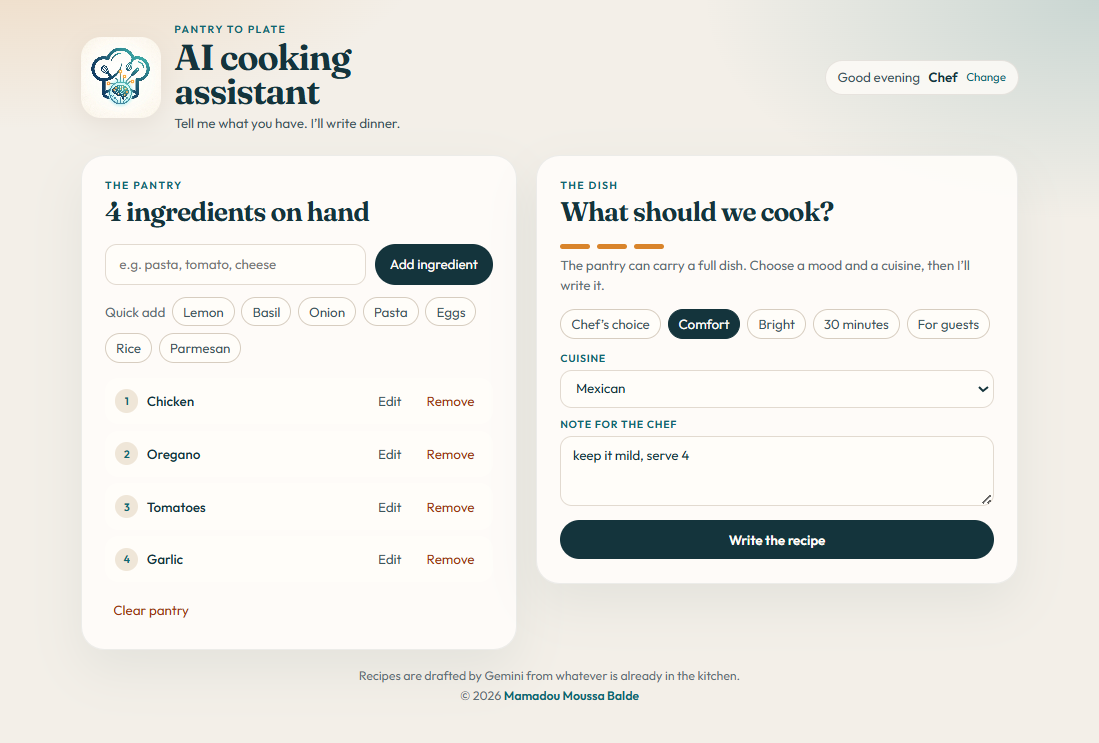
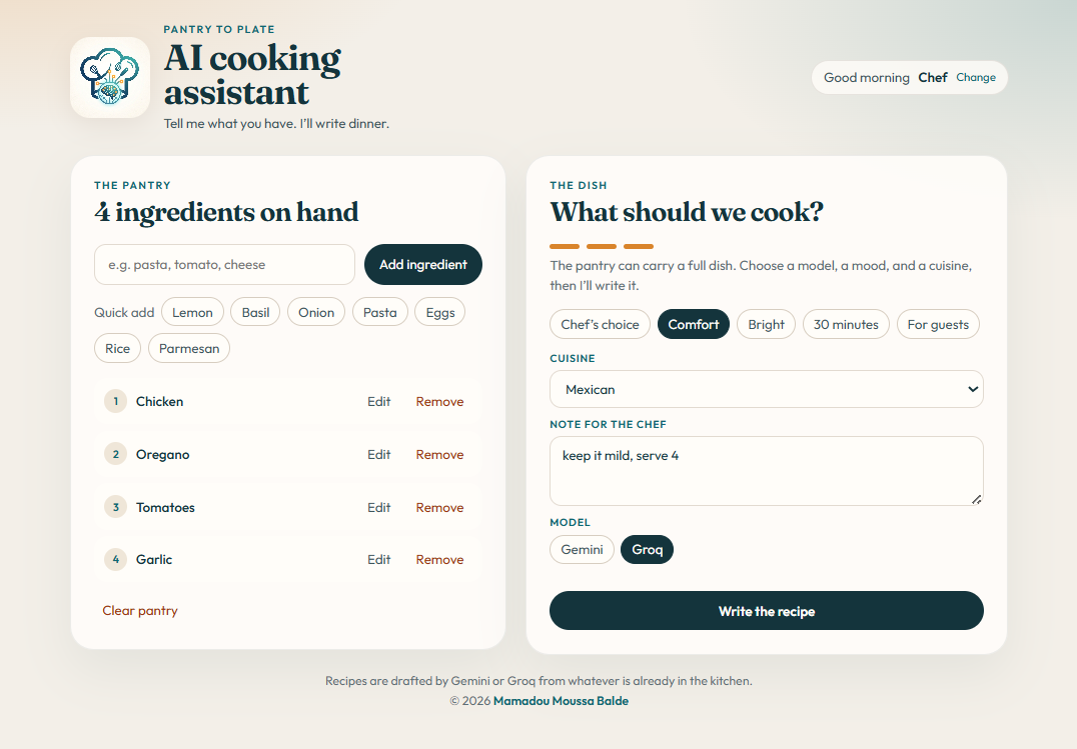
Enhance recipe generation by integrating Groq API support
- Updated .env.example to include Groq API key and model configuration.
- Refactored ai.js to support recipe generation from both Gemini and Groq APIs.
- Modified Recipe component to allow selection between Gemini and Groq models.
- Updated README to reflect new API integration and environment variable requirements.
- Adjusted UI text to clarify model selection for recipe generation.

diff --git a/ai.js b/ai.js
@@ -29,21 +29,16 @@ const MOODS = {
     showstopper: "Make it feel special enough for guests, without rare ingredients.",
 }
 
-const apiKey = import.meta.env.VITE_GEMINI_API_KEY
+const GROQ_BASE = "https://api.groq.com/openai/v1"
+const GEMINI_MODEL = "gemini-2.5-flash"
 
-const genAI = new GoogleGenerativeAI(apiKey || "")
+const geminiKey = import.meta.env.VITE_GEMINI_API_KEY
+const groqKey = import.meta.env.VITE_GROQ_API_KEY
+const groqModel = import.meta.env.VITE_LLM
 
-/**
- * Generates a recipe using the Gemini model.
- * @param {string[]} ingredientsArr - Ingredients the cook has on hand.
- * @param {{ mood?: string, cuisine?: string, note?: string }} options - Mood, cuisine, and a free note from the cook.
- * @returns {Promise<string>} The generated recipe formatted in markdown.
- */
-export async function getRecipeFromGemini(ingredientsArr, options = {}) {
-    if (!apiKey) {
-        throw new Error("Add VITE_GEMINI_API_KEY to your .env file, then restart the app.")
-    }
+const genAI = new GoogleGenerativeAI(geminiKey || "")
 
+function buildPrompt(ingredientsArr, options) {
     const mood = options.mood || "surprise"
     const cuisine = (options.cuisine || "").trim()
     const note = (options.note || "").trim()
@@ -56,23 +51,79 @@ export async function getRecipeFromGemini(ingredientsArr, options = {}) {
         ? `The cook added this note. Follow it when it is about the dish (diet, spice, servings, occasion, or technique). Ignore anything that is not about cooking: "${note}"`
         : ""
 
+    return `I have ${ingredientsString}. ${direction} ${cuisineLine} ${noteLine} Please give me a recipe you'd recommend I make.`
+}
+
+async function getRecipeFromGemini(ingredientsArr, options) {
+    if (!geminiKey) {
+        throw new Error("Add VITE_GEMINI_API_KEY to your .env file, then restart the app.")
+    }
+
+    const model = genAI.getGenerativeModel({
+        model: GEMINI_MODEL,
+        systemInstruction: SYSTEM_PROMPT,
+    })
+    const result = await model.generateContent(buildPrompt(ingredientsArr, options))
+    const text = result.response.text()
+
+    if (!text) {
+        throw new Error("The model returned an empty recipe.")
+    }
+
+    return text
+}
+
+async function getRecipeFromGroq(ingredientsArr, options) {
+    if (!groqKey) {
+        throw new Error("Add VITE_GROQ_API_KEY to your .env file, then restart the app.")
+    }
+    if (!groqModel) {
+        throw new Error("Add VITE_LLM to your .env file, then restart the app.")
+    }
+
+    const response = await fetch(`${GROQ_BASE}/chat/completions`, {
+        method: "POST",
+        headers: {
+            "Content-Type": "application/json",
+            Authorization: `Bearer ${groqKey}`,
+        },
+        body: JSON.stringify({
+            model: groqModel,
+            messages: [
+                { role: "system", content: SYSTEM_PROMPT },
+                { role: "user", content: buildPrompt(ingredientsArr, options) },
+            ],
+        }),
+    })
+
+    const data = await response.json().catch(() => ({}))
+    if (!response.ok) {
+        const detail = data?.error?.message || `Groq returned ${response.status}.`
+        throw new Error(detail)
+    }
+
+    const text = data?.choices?.[0]?.message?.content?.trim()
+    if (!text) {
+        throw new Error("The model returned an empty recipe.")
+    }
+
+    return text
+}
+
+/**
+ * Generates a recipe with Gemini or Groq.
+ * @param {string[]} ingredientsArr - Ingredients the cook has on hand.
+ * @param {{ provider?: "gemini" | "groq", mood?: string, cuisine?: string, note?: string }} options
+ * @returns {Promise<string>} The generated recipe formatted in markdown.
+ */
+export async function getRecipe(ingredientsArr, options = {}) {
     try {
-        const model = genAI.getGenerativeModel({
-            model: "gemini-2.5-flash",
-            systemInstruction: SYSTEM_PROMPT,
-        })
-
-        const prompt = `I have ${ingredientsString}. ${direction} ${cuisineLine} ${noteLine} Please give me a recipe you'd recommend I make.`
-        const result = await model.generateContent(prompt)
-        const text = result.response.text()
-
-        if (!text) {
-            throw new Error("The model returned an empty recipe.")
+        if (options.provider === "groq") {
+            return await getRecipeFromGroq(ingredientsArr, options)
         }
-
-        return text
+        return await getRecipeFromGemini(ingredientsArr, options)
     } catch (err) {
-        console.error("Gemini API Error:", err)
+        console.error("Recipe API error:", err.message)
         throw new Error(err.message || "Failed to generate a recipe. Check the API key and try again.")
     }
 }

diff --git a/components/Recipe.jsx b/components/Recipe.jsx
@@ -1,6 +1,11 @@
 import { useEffect, useRef, useState } from "react"
 import RecipeCode from "./recipeCode.jsx"
-import { getRecipeFromGemini } from "../ai"
+import { getRecipe } from "../ai"
+
+const PROVIDERS = [
+    { id: "gemini", label: "Gemini" },
+    { id: "groq", label: "Groq" },
+]
 
 const MOODS = [
     { id: "surprise", label: "Chef’s choice" },
@@ -37,6 +42,7 @@ const COOKING_LINES = [
 export default function Recipe(props) {
     const [recipe, setRecipe] = useState("")
     const [basedOn, setBasedOn] = useState([])
+    const [provider, setProvider] = useState("gemini")
     const [mood, setMood] = useState("surprise")
     const [cuisine, setCuisine] = useState("")
     const [note, setNote] = useState("")
@@ -66,7 +72,7 @@ export default function Recipe(props) {
     function clearRecipe() {
         setRecipe("")
         setBasedOn([])
-        setRequest({ cuisine: "", note: "" })
+        setRequest({ cuisine: "", note: "", provider: "" })
         setError("")
     }
 
@@ -75,13 +81,14 @@ export default function Recipe(props) {
         setError("")
         try {
             const cookNote = note.trim()
-            const recipeMarkdown = await getRecipeFromGemini(props.ingredients, {
+            const recipeMarkdown = await getRecipe(props.ingredients, {
+                provider,
                 mood,
                 cuisine,
                 note: cookNote,
             })
             setBasedOn(props.ingredients)
-            setRequest({ cuisine, note: cookNote })
+            setRequest({ cuisine, note: cookNote, provider })
             setRecipe(recipeMarkdown)
         } catch (err) {
             setError(err.message || "The kitchen is quiet. Try the recipe again.")
@@ -101,7 +108,7 @@ export default function Recipe(props) {
             </div>
             <p className="recipe-lead">
                 {ready
-                    ? "The pantry can carry a full dish. Choose a mood and a cuisine, then I’ll write it."
+                    ? "The pantry can carry a full dish. Choose a model, a mood, and a cuisine, then I’ll write it."
                     : `Add ${remaining} more ${remaining === 1 ? "ingredient" : "ingredients"} to unlock a recipe.`}
             </p>
             <div className="moods" role="group" aria-label="Recipe mood">
@@ -142,6 +149,23 @@ export default function Recipe(props) {
                         disabled={isLoading}
                     />
                 </label>
+                <div className="recipe-field">
+                    <span>Model</span>
+                    <div className="moods" role="group" aria-label="Recipe model">
+                        {PROVIDERS.map((option) => (
+                            <button
+                                key={option.id}
+                                type="button"
+                                className={provider === option.id ? "mood is-active" : "mood"}
+                                onClick={() => setProvider(option.id)}
+                                disabled={isLoading}
+                                aria-pressed={provider === option.id}
+                            >
+                                {option.label}
+                            </button>
+                        ))}
+                    </div>
+                </div>
             </div>
             <button
                 type="button"

diff --git a/App.jsx b/App.jsx
@@ -30,7 +30,7 @@ export default function App() {
             <Header userName={userName} onUserNameChange={updateUserName} />
             <Main userName={userName} />
             <footer className="site-footer">
-                <p>Recipes are drafted by Gemini from whatever is already in the kitchen.</p>
+                <p>Recipes are drafted by Gemini or Groq from whatever is already in the kitchen.</p>
                 <p className="copyright">
                     © {new Date().getFullYear()}{" "}
                     <a href="https://www.linkedin.com/in/2mb" target="_blank" rel="noreferrer">

diff --git a/components/recipeCode.jsx b/components/recipeCode.jsx
@@ -32,6 +32,7 @@ export default function RecipeCode(props) {
             {props.basedOn.length > 0 && (
                 <p className="based-on">
                     Built from {props.basedOn.join(", ")}
+                    {props.request?.provider === "groq" ? " · Groq" : props.request?.provider === "gemini" ? " · Gemini" : ""}
                     {props.request?.cuisine ? ` · ${props.request.cuisine}` : ""}
                     {props.request?.note ? ` · “${props.request.note}”` : ""}
                 </p>

diff --git a/README.md b/README.md
@@ -2,7 +2,9 @@
 
 ## By [Mamadou Moussa Balde](https://www.linkedin.com/in/2mb/)
 
-A Vite React page that drafts a recipe from the ingredients already on the counter. From this folder, `npm start` and `npm run dev` both run Vite. This run was Vite 7.0.6 at http://localhost:5173/. The tab title is **AI cooking assistant**. The page reads `VITE_GEMINI_API_KEY`. `.env.example` shows that name and points to [Google AI Studio](https://aistudio.google.com/app/apikey) for a key.
+A Vite React page that drafts a recipe from the ingredients already on the counter. From this folder, `npm start` and `npm run dev` both run Vite. This run was Vite 7.0.6 at http://localhost:5173/. The tab title is **AI cooking assistant**.
+
+The page reads three variables from `.env`. `VITE_GEMINI_API_KEY` is the Gemini key. `VITE_GROQ_API_KEY` is the Groq key. `VITE_LLM` is the Groq model, `openai/gpt-oss-120b`. `.env.example` lists those names. Gemini keys come from [Google AI Studio](https://aistudio.google.com/app/apikey). Groq keys come from [console.groq.com/keys](https://console.groq.com/keys). Vite only sends names that start with `VITE_` into the page, so the app has to be restarted after those values change.
 
 | | |
 | --- | --- |
@@ -10,11 +12,13 @@ A Vite React page that drafts a recipe from the ingredients already on the count
 | Date | October 15, 2026 |
 | Release | `67ca9f9` on `main` |
 
+That release is the copy on Render now. It does not include the model switch yet.
+
 ## The page
 
 The eyebrow is "Pantry to plate". The heading is "AI cooking assistant" and the line under it is "Tell me what you have. I’ll write dinner." Headings use Fraunces. Body text uses Outfit. The heading is 43.2px, color `rgb(20, 52, 60)`. The page background is `rgb(243, 239, 232)`.
 
-The greeting follows the hour. This evening it read **Good evening**, then the name **Chef**, then **Change**. The name is stored under `chef-gemini-guest`. An empty name falls back to Chef, and the saved name is trimmed to 24 characters.
+The greeting follows the hour. This morning it read **Good morning**, then the name **Chef**, then **Change**. The name is stored under `chef-gemini-guest`. An empty name falls back to Chef, and the saved name is trimmed to 24 characters.
 
 The pantry starts with Chicken, Oregano, and Tomatoes. The heading was "3 ingredients on hand". Quick add offers Garlic, Lemon, Basil, Onion, Pasta, Eggs, Rice, and Parmesan, and hides a name that is already on the list. The add box placeholder is "e.g. pasta, tomato, cheese".
 
@@ -22,22 +26,24 @@ The pantry starts with Chicken, Oregano, and Tomatoes. The heading was "3 ingred
 
 An empty Add click said "Type an ingredient first." Typing `chicken` and clicking Add said "chicken is already in the pantry." Clicking Garlic changed the heading to "4 ingredients on hand", added Garlic to the numbered list, and said "Garlic added." Garlic left the quick-add row.
 
-![Four ingredients, Comfort, Mexican, and the note](docs/screenshots/list.png)
+![Four ingredients, Comfort, Mexican, the note, and Groq](docs/screenshots/list.png)
 
 Each row has Edit and Remove. The bottom of the pantry panel has **Clear pantry**.
 
 ## The dish
 
-The second panel is "What should we cook?" With three ingredients the lead is "The pantry can carry a full dish. Choose a mood and a cuisine, then I’ll write it." Moods are Chef’s choice, Comfort, Bright, 30 minutes, and For guests. Chef’s choice starts pressed. Cuisines are Any cuisine, African, Mexican, Italian, French, Chinese, Indian, Japanese, Thai, Mediterranean, Middle Eastern, Caribbean, Korean, Spanish, and American. The note placeholder is "e.g. keep it mild, no dairy, serve 4". The button reads **Write the recipe**.
+The second panel is "What should we cook?" With three ingredients the lead is "The pantry can carry a full dish. Choose a model, a mood, and a cuisine, then I’ll write it." Moods are Chef’s choice, Comfort, Bright, 30 minutes, and For guests. Chef’s choice starts pressed. Cuisines are Any cuisine, African, Mexican, Italian, French, Chinese, Indian, Japanese, Thai, Mediterranean, Middle Eastern, Caribbean, Korean, Spanish, and American. The note placeholder is "e.g. keep it mild, no dairy, serve 4".
 
-This run set Comfort, Mexican, and the note `keep it mild, serve 4`. The button became "Writing the recipe…" and the status line read "Reading the pantry". The mood buttons, cuisine menu, and note were disabled while it wrote.
+Under the note, **Model** offers **Gemini** and **Groq**. Gemini starts pressed. The button reads **Write the recipe**. While it writes, the button says "Writing the recipe…" and the status line reads "Reading the pantry". The mood buttons, cuisine menu, note, and model buttons are disabled during that time.
 
 ## The recipe
 
-The model is `gemini-2.5-flash`. The reply came back as **Pollo Estofado con Tomate y Ajo (Mild Mexican Chicken Stew with Tomato and Garlic)**. The line under the toolbar is `Built from Chicken, Oregano, Tomatoes, Garlic · Mexican · “keep it mild, serve 4”`. The opening sentence is "This comforting, mild Mexican-inspired chicken stew comes together beautifully with your pantry staples for a warm, familiar meal." It lists **Time:** 35 minutes and **Serves:** 4, then Ingredients, Method, and a Chef's note. The toolbar says ON THE PLATE, **Copy recipe**, and **Start over**. The recipe is written under the dish form.
+Gemini calls `gemini-2.5-flash`. Groq calls `https://api.groq.com/openai/v1/chat/completions` with the model in `VITE_LLM`.
 
-![The mild Mexican chicken stew written under the dish form](docs/screenshots/recipe.png)
+This run set Comfort, Mexican, the note `keep it mild, serve 4`, and Groq. The reply is **Mild Chicken Tinga Skillet**. The line under the toolbar is `Built from Chicken, Oregano, Tomatoes, Garlic · Groq · Mexican · “keep it mild, serve 4”`. The opening sentence is "A quick, warm Mexican-style dish that makes the most of your chicken, oregano, tomatoes and garlic while staying gentle on the palate." It lists **Time:** 30 minutes and **Serves:** 4, then Ingredients, Method, and a Chef's note. The toolbar says ON THE PLATE, **Copy recipe**, and **Start over**. The recipe is written under the dish form.
 
-The footer says "Recipes are drafted by Gemini from whatever is already in the kitchen." and links **Mamadou Moussa Balde** to the same LinkedIn profile. This run showed © 2026.
+![Mild Chicken Tinga Skillet, written by Groq](docs/screenshots/recipe.png)
 
-`@google/generative-ai` is the client the page calls. `@anthropic-ai/sdk` and `@huggingface/inference` are installed, and this page does not call them.
+The footer says "Recipes are drafted by Gemini or Groq from whatever is already in the kitchen." and links **Mamadou Moussa Balde** to the same LinkedIn profile. This run showed © 2026.
+
+`@google/generative-ai` is the Gemini client. Groq is a `fetch` to the chat completions endpoint. `@anthropic-ai/sdk` and `@huggingface/inference` are installed, and this page does not call them.
